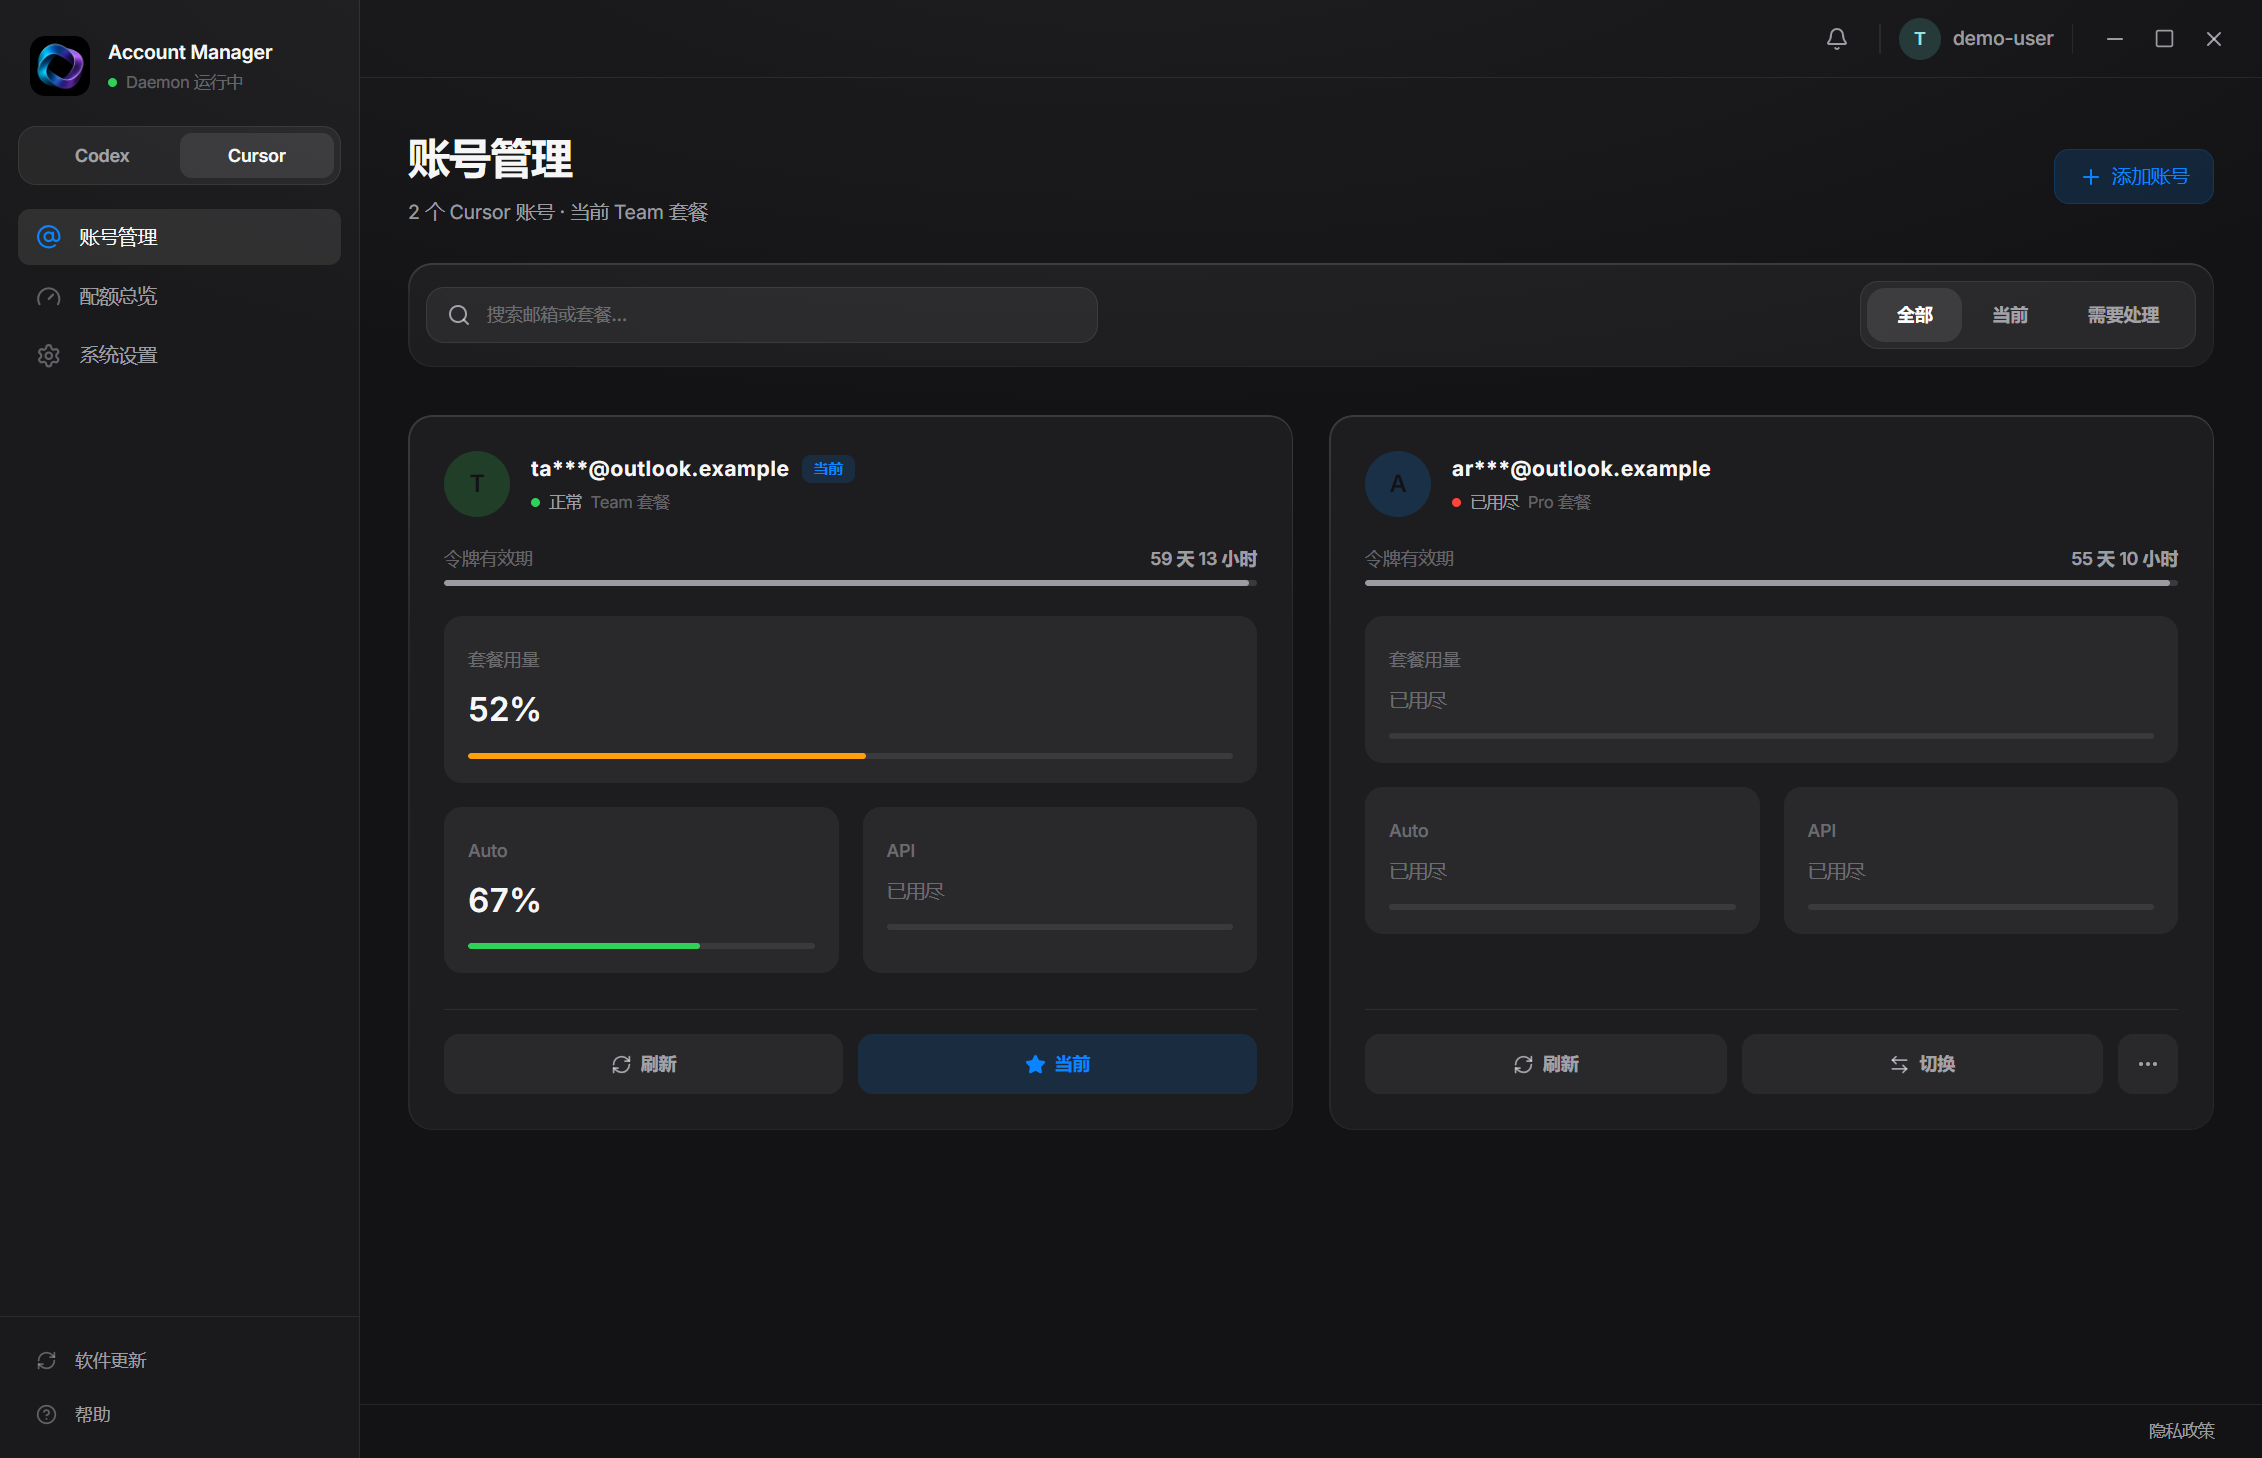
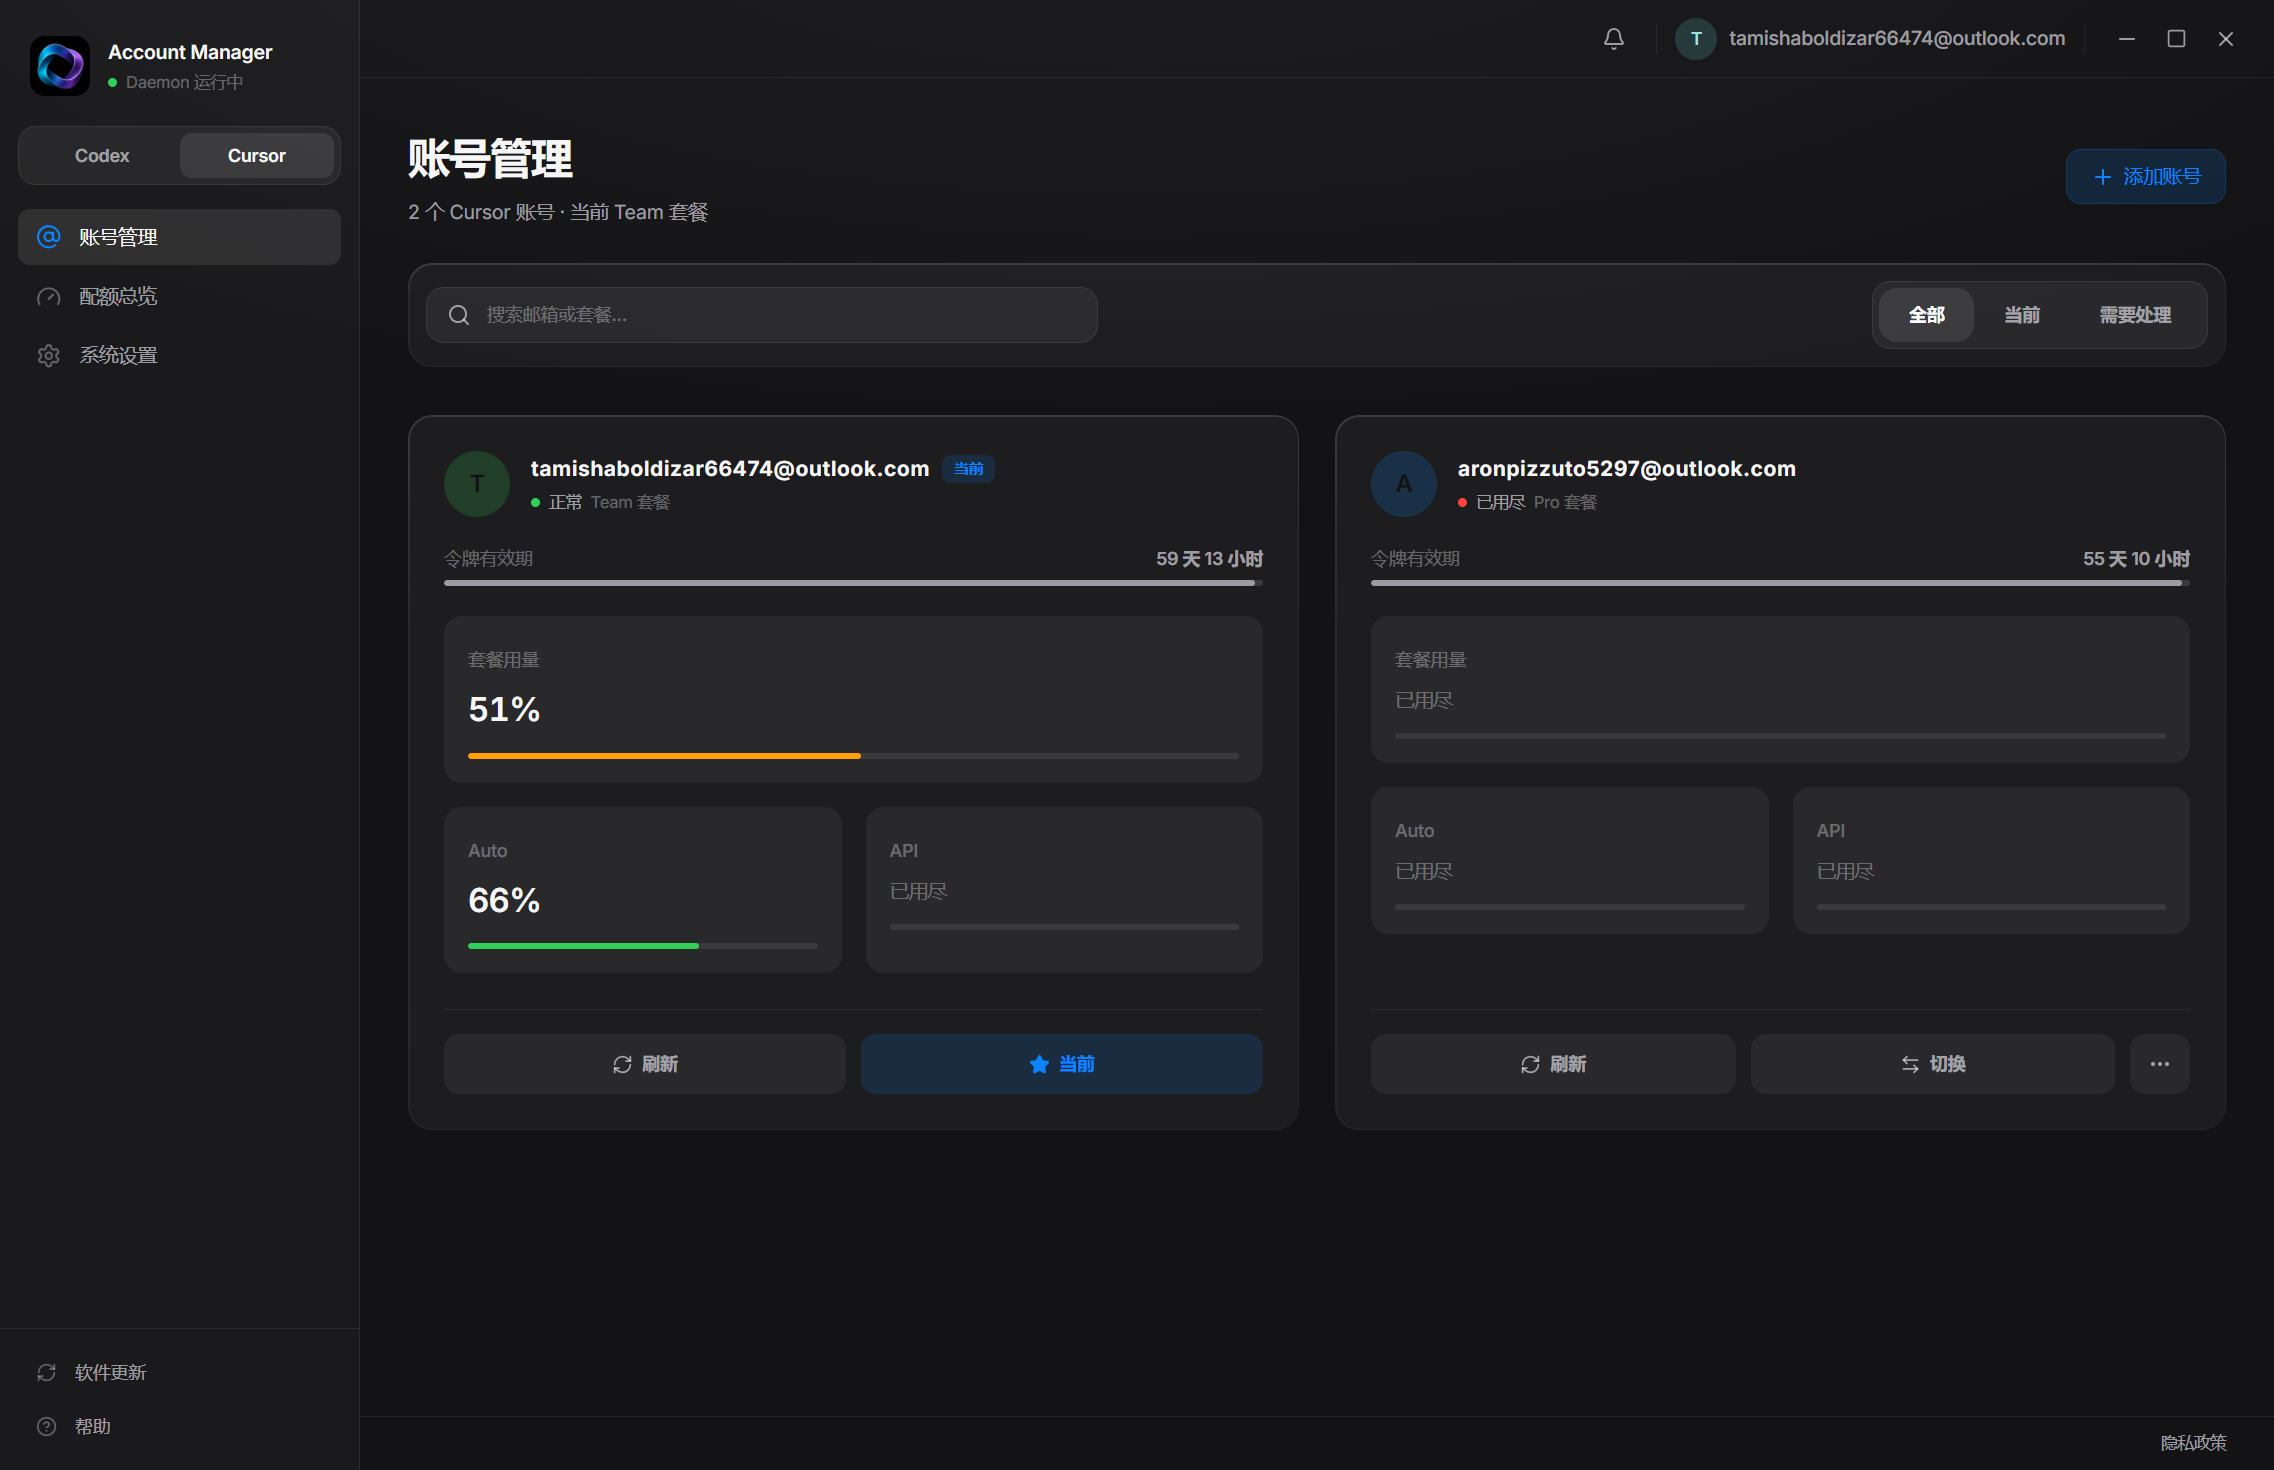
docs: show live account emails on the GitHub screenshots
The public gallery now uses the real mailbox on each card, and adds the Codex account page next to Cursor quotas.

diff --git a/scripts/capture-live-app.js b/scripts/capture-live-app.js
@@ -7,56 +7,6 @@ const root = path.resolve(__dirname, "..");
 const outDir = path.join(root, "docs", "images");
 const cdpUrl = process.env.README_CDP_URL || "http://127.0.0.1:9222";
 
-function maskEmailsInText(text) {
-  return String(text || "").replace(
-    /[A-Za-z0-9._%+-]+@[A-Za-z0-9.-]+\.[A-Za-z]{2,}/g,
-    (email) => {
-      const parts = email.split("@");
-      const user = parts[0] || "user";
-      const domain = parts.slice(1).join("@") || "example.com";
-      const visible = user.slice(0, 2);
-      const host = domain.split(".")[0] || "mail";
-      return `${visible}***@${host}.example`;
-    },
-  );
-}
-
-async function maskPage(page) {
-  await page.evaluate(() => {
-    const emailRe = /[A-Za-z0-9._%+-]+@[A-Za-z0-9.-]+\.[A-Za-z]{2,}/g;
-    const maskEmail = (text) => String(text || "").replace(emailRe, (email) => {
-      const user = email.split("@")[0] || "user";
-      const domain = email.split("@").slice(1).join("@") || "example.com";
-      return `${user.slice(0, 2)}***@${(domain.split(".")[0] || "mail")}.example`;
-    });
-    const source = document.body.innerText || "";
-    const locals = [...new Set((source.match(emailRe) || []).map((email) => email.split("@")[0]).filter((part) => part.length >= 4))];
-    const maskLocal = (text) => {
-      let next = maskEmail(text);
-      for (const local of locals) {
-        if (!local) continue;
-        next = next.split(local).join(`${local.slice(0, 2)}***`);
-      }
-      return next;
-    };
-    const walk = (node) => {
-      if (node.nodeType === 3) {
-        node.textContent = maskLocal(node.textContent);
-        return;
-      }
-      if (node.nodeType !== 1) return;
-      for (const attr of ["title", "aria-label", "placeholder"]) {
-        const value = node.getAttribute && node.getAttribute(attr);
-        if (value) node.setAttribute(attr, maskLocal(value));
-      }
-      for (const child of Array.from(node.childNodes)) walk(child);
-    };
-    walk(document.body);
-    const profile = document.querySelector("#header-user-profile-widget span");
-    if (profile && profile.textContent) profile.textContent = "demo-user";
-  });
-}
-
 async function save(page, name) {
   const target = path.join(outDir, name);
   await page.screenshot({ path: target, type: "png" });
@@ -88,23 +38,27 @@ async function captureDashboard(page) {
   await selectProduct(page, "cursor");
   await page.click("#sidebar-nav-accounts");
   await page.waitForTimeout(500);
-  await maskPage(page);
   await save(page, "account-dashboard.png");
 
   await page.click("#sidebar-nav-quotas");
   await page.waitForTimeout(500);
-  await maskPage(page);
   await save(page, "quota-overview.png");
 
   await selectProduct(page, "codex");
+  await page.click("#sidebar-nav-accounts");
+  await page.waitForTimeout(500);
+  await save(page, "codex-accounts.png");
+
   await page.click("#sidebar-nav-autoswitch");
   await page.waitForTimeout(500);
-  await maskPage(page);
+  await page.evaluate(() => {
+    const banner = document.querySelector("#autoswitch-log-banner");
+    if (banner) banner.style.display = "none";
+  });
   await save(page, "auto-switch.png");
 
   await page.click("#sidebar-nav-settings");
   await page.waitForTimeout(500);
-  await maskPage(page);
   await save(page, "settings.png");
 }
 
@@ -121,13 +75,11 @@ async function captureFloat(browser, page) {
     return;
   }
   await lens.bringToFront();
-  await maskPage(lens);
   const current = await lens.locator(".float-lens-shell").screenshot({ type: "png" });
   const nextBtn = lens.locator('button[title="下一个账号"]');
   if (await nextBtn.count()) {
     await nextBtn.click();
     await lens.waitForTimeout(250);
-    await maskPage(lens);
   }
   const preview = await lens.locator(".float-lens-shell").screenshot({ type: "png" });
   const currentPath = path.join(os.tmpdir(), "cam-float-current.png");
@@ -196,7 +148,6 @@ async function captureLogin(page) {
   const input = page.locator("#login-email-input");
   if (await input.count()) await input.fill("");
   await page.waitForTimeout(300);
-  await maskPage(page);
   await save(page, "login.png");
   await page.evaluate((auth) => {
     if (auth.status) localStorage.setItem("codex_auth_status", auth.status);
@@ -219,7 +170,6 @@ async function main() {
     await page.waitForTimeout(500);
     const onLogin = await page.locator("#login-card").count();
     if (onLogin) {
-      await maskPage(page);
       await save(page, "login.png");
       const input = page.locator("#login-email-input");
       if (await input.count()) {
@@ -234,6 +184,8 @@ async function main() {
     await captureFloat(browser, page);
     const previousUrl = await captureLogin(page);
     if (previousUrl) await restoreSession(page, previousUrl);
+    await selectProduct(page, "cursor");
+    await page.click("#sidebar-nav-accounts");
   } finally {
     // Keep the running desktop app open.
   }

diff --git a/scripts/verify-release.js b/scripts/verify-release.js
@@ -13,6 +13,7 @@ const requiredFiles = [
   "ASSET_LICENSE.md",
   "THIRD_PARTY_NOTICES.md",
   "docs/images/account-dashboard.png",
+  "docs/images/codex-accounts.png",
   "docs/images/quota-overview.png",
   "docs/images/auto-switch.png",
   "docs/images/settings.png",

diff --git a/README.en.md b/README.en.md
@@ -57,33 +57,32 @@ work finish first.
 
 <table>
   <tr>
+    <td align="center"><sub><b>Codex accounts</b></sub></td>
     <td align="center"><sub><b>Cursor quotas</b></sub></td>
-    <td align="center"><sub><b>Codex auto-switch</b></sub></td>
   </tr>
   <tr>
+    <td><img src="docs/images/codex-accounts.png" alt="Codex accounts" /></td>
     <td><img src="docs/images/quota-overview.png" alt="Cursor quota overview" /></td>
-    <td><img src="docs/images/auto-switch.png" alt="Codex automatic switching" /></td>
   </tr>
   <tr>
+    <td align="center"><sub><b>Codex auto-switch</b></sub></td>
     <td align="center"><sub><b>Settings</b></sub></td>
-    <td align="center"><sub><b>Login</b></sub></td>
   </tr>
   <tr>
+    <td><img src="docs/images/auto-switch.png" alt="Codex automatic switching" /></td>
     <td><img src="docs/images/settings.png" alt="Settings" /></td>
-    <td><img src="docs/images/login.png" alt="Login" /></td>
   </tr>
   <tr>
+    <td align="center"><sub><b>Login</b></sub></td>
     <td align="center"><sub><b>Desktop quota lens</b></sub></td>
-    <td align="center"><sub><b>Tray menu</b></sub></td>
   </tr>
   <tr>
+    <td><img src="docs/images/login.png" alt="Login" /></td>
     <td><img src="docs/images/float-lens.png" alt="Desktop quota lens" /></td>
-    <td><img src="docs/images/tray-menu.png" alt="Tray menu" /></td>
   </tr>
 </table>
 
-Emails in the screenshots are masked. The hero is the Cursor account page; the
-sidebar switches back to Codex.
+The hero is the Cursor account page. Closing the window hides it to the tray.
 
 ## Install
 

diff --git a/README.md b/README.md
@@ -42,32 +42,32 @@
 
 <table>
   <tr>
+    <td align="center"><sub><b>Codex 账号</b></sub></td>
     <td align="center"><sub><b>Cursor 配额</b></sub></td>
-    <td align="center"><sub><b>Codex 自动切号</b></sub></td>
   </tr>
   <tr>
+    <td><img src="docs/images/codex-accounts.png" alt="Codex 账号" /></td>
     <td><img src="docs/images/quota-overview.png" alt="Cursor 配额总览" /></td>
-    <td><img src="docs/images/auto-switch.png" alt="Codex 自动切号" /></td>
   </tr>
   <tr>
+    <td align="center"><sub><b>Codex 自动切号</b></sub></td>
     <td align="center"><sub><b>系统设置</b></sub></td>
-    <td align="center"><sub><b>登录</b></sub></td>
   </tr>
   <tr>
+    <td><img src="docs/images/auto-switch.png" alt="Codex 自动切号" /></td>
     <td><img src="docs/images/settings.png" alt="系统设置" /></td>
-    <td><img src="docs/images/login.png" alt="登录" /></td>
   </tr>
   <tr>
+    <td align="center"><sub><b>登录</b></sub></td>
     <td align="center"><sub><b>桌面额度镜</b></sub></td>
-    <td align="center"><sub><b>托盘菜单</b></sub></td>
   </tr>
   <tr>
+    <td><img src="docs/images/login.png" alt="登录" /></td>
     <td><img src="docs/images/float-lens.png" alt="桌面额度镜" /></td>
-    <td><img src="docs/images/tray-menu.png" alt="托盘菜单" /></td>
   </tr>
 </table>
 
-截图里的邮箱已做遮盖。主图是 Cursor 账号页，侧栏可以切回 Codex。
+主图是 Cursor 账号页。点叉会收到托盘。
 
 ## 安装
 

diff --git a/CONTRIBUTING.md b/CONTRIBUTING.md
@@ -48,7 +48,7 @@ release metadata validation.
 - Preserve atomic writes and existing backups around credential state.
 - Do not log tokens, authorization headers, OAuth callbacks, or complete
   account objects.
-- Keep screenshots and fixtures synthetic or email-masked.
+- Keep fixtures free of tokens. Live screenshots may show account emails.
 - Treat missing quota windows as unknown, not zero.
 - Keep Codex and Cursor storage, OAuth, and switch paths separate. Do not scan
   one product's files as the other.
@@ -83,7 +83,7 @@ Include:
 - a concise description of the behavior change;
 - the reason for the change;
 - commands and manual scenarios used for verification;
-- synthetic or email-masked screenshots for visible UI changes;
+- screenshots for visible UI changes;
 - migration or rollback notes when local data changes.
 
 By contributing, you agree that your contribution is licensed under the

diff --git a/docs/privacy.md b/docs/privacy.md
@@ -20,8 +20,8 @@ backend, telemetry pipeline, advertising service, or cross-device account sync.
 | `%USERPROFILE%\.codex\codex_auth_projection.json` | Manager projection of the selected Codex account |
 | `%APPDATA%\Cursor\User\globalStorage\state.vscdb` | Official Cursor login database written during a Cursor switch |
 
-The installer and application do not include real accounts, tokens, logs, or
-usage snapshots. Repository screenshots mask live emails.
+The installer and application do not include tokens, logs, or usage snapshots.
+Public README screenshots may show live account emails.
 
 ## Token protection
 

diff --git a/ASSET_LICENSE.md b/ASSET_LICENSE.md
@@ -13,7 +13,7 @@ do not imply affiliation with or endorsement by OpenAI.
 ## Screenshots
 
 The screenshots under `docs/images/` (including the GitHub social preview
-image) are product images from the live app, with email addresses masked.
+image) are product images from the live app.
 
 Third-party software and icon-library notices are listed in
 [THIRD_PARTY_NOTICES.md](THIRD_PARTY_NOTICES.md).

diff --git a/.github/pull_request_template.md b/.github/pull_request_template.md
@@ -16,7 +16,7 @@ npm run build:dir
 - [ ] No real account data, tokens, callback URLs, or private logs are included.
 - [ ] New network, storage, process, or IPC behavior is documented.
 - [ ] Destructive and failure paths were tested where applicable.
-- [ ] Screenshots use synthetic data.
+- [ ] Screenshots do not include tokens, callback URLs, or auth files.
 
 ## Scope
 
